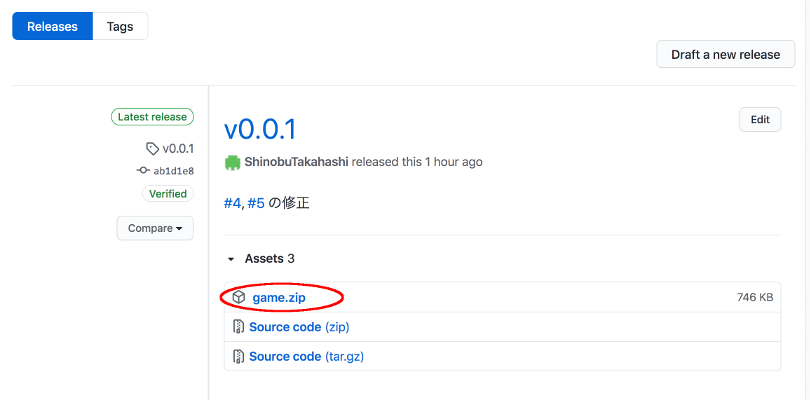
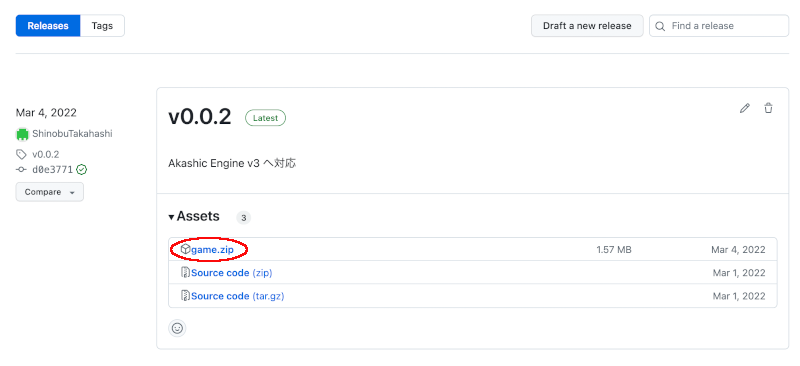
udpate akashic-web-page

diff --git a/shin-ichiba/thiefBuster-mod.html b/shin-ichiba/thiefBuster-mod.html
@@ -375,7 +375,7 @@
 <p>release のページに移ったら、次に最新のリリースに含まれる game.zip というファイルを選択してください。</p>
 <p><img src="/img/shin-ichiba/thiefBuster-mod/download-gamezip.png" alt="game.zipのダウンロード"></p>
 <p>この手順の通りにやると最新版の game.zip をダウンロードできますが、本記事時点の最新版でよければこちらのリンクからダウンロードすることもできます。</p>
-<p><strong><a href="https://github.com/akashic-contents/thiefBuster/releases/download/v0.0.1/game.zip">https://github.com/akashic-contents/thiefBuster/releases/download/v0.0.1/game.zip</a></strong></p>
+<p><strong><a href="https://github.com/akashic-contents/thiefBuster/releases/download/v0.0.2/game.zip">https://github.com/akashic-contents/thiefBuster/releases/download/v0.0.2/game.zip</a></strong></p>
 <p>ZIP ファイルの解凍方法がわかる方は、ダウンロードしたファイルを解凍してください。Windows ユーザの方は、エクスプローラ等からファイルを右クリックし、そこで出てくるすべて展開というメニューで解凍できます。</p>
 <p><img src="/img/shin-ichiba/thiefBuster-mod/thiefBuster-extract.png" alt="泥棒バスターの解凍"></p>
 <p>こういったダイアログが出てくると思うので、展開というボタンを押せば展開されます。</p>
